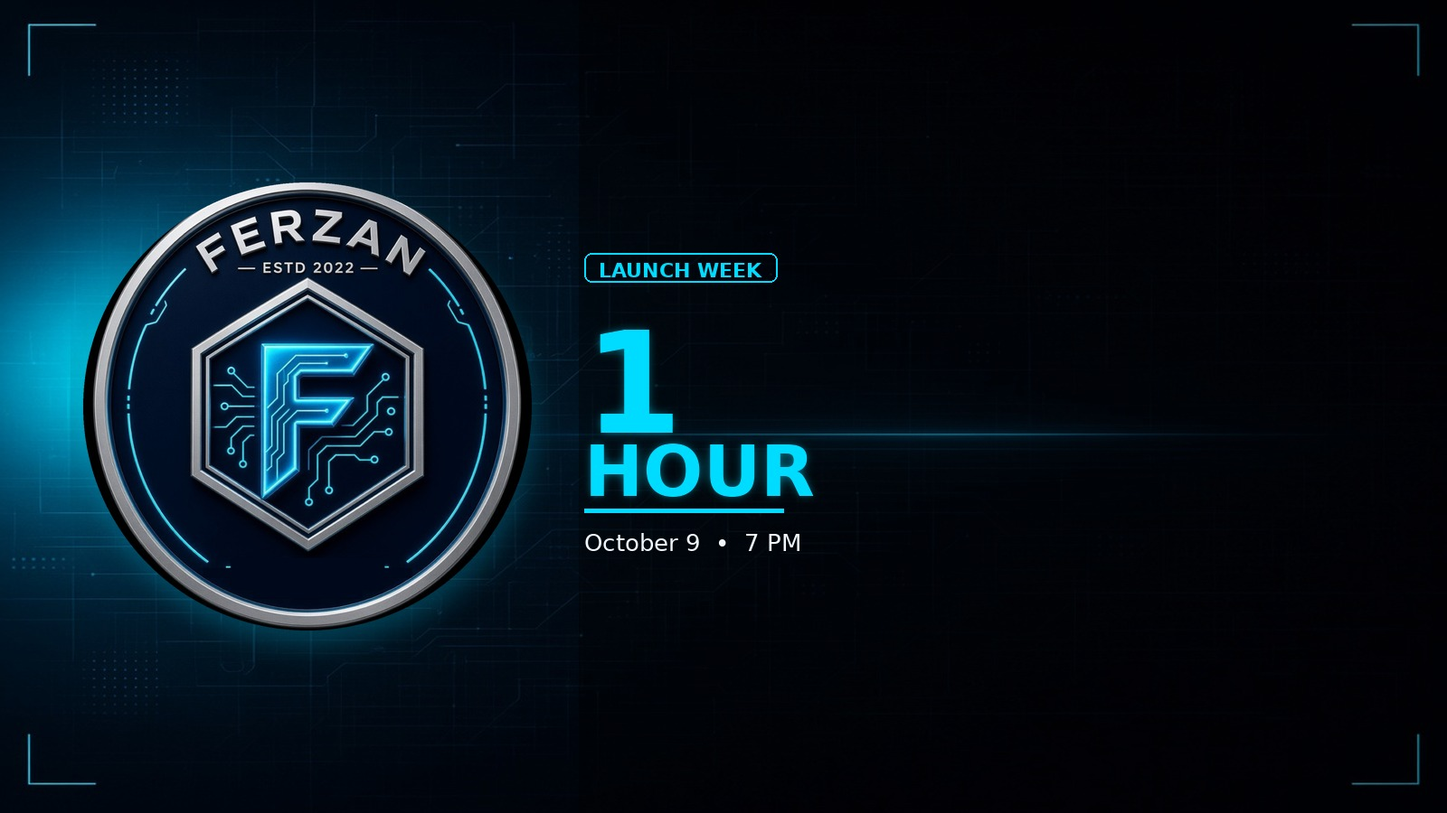
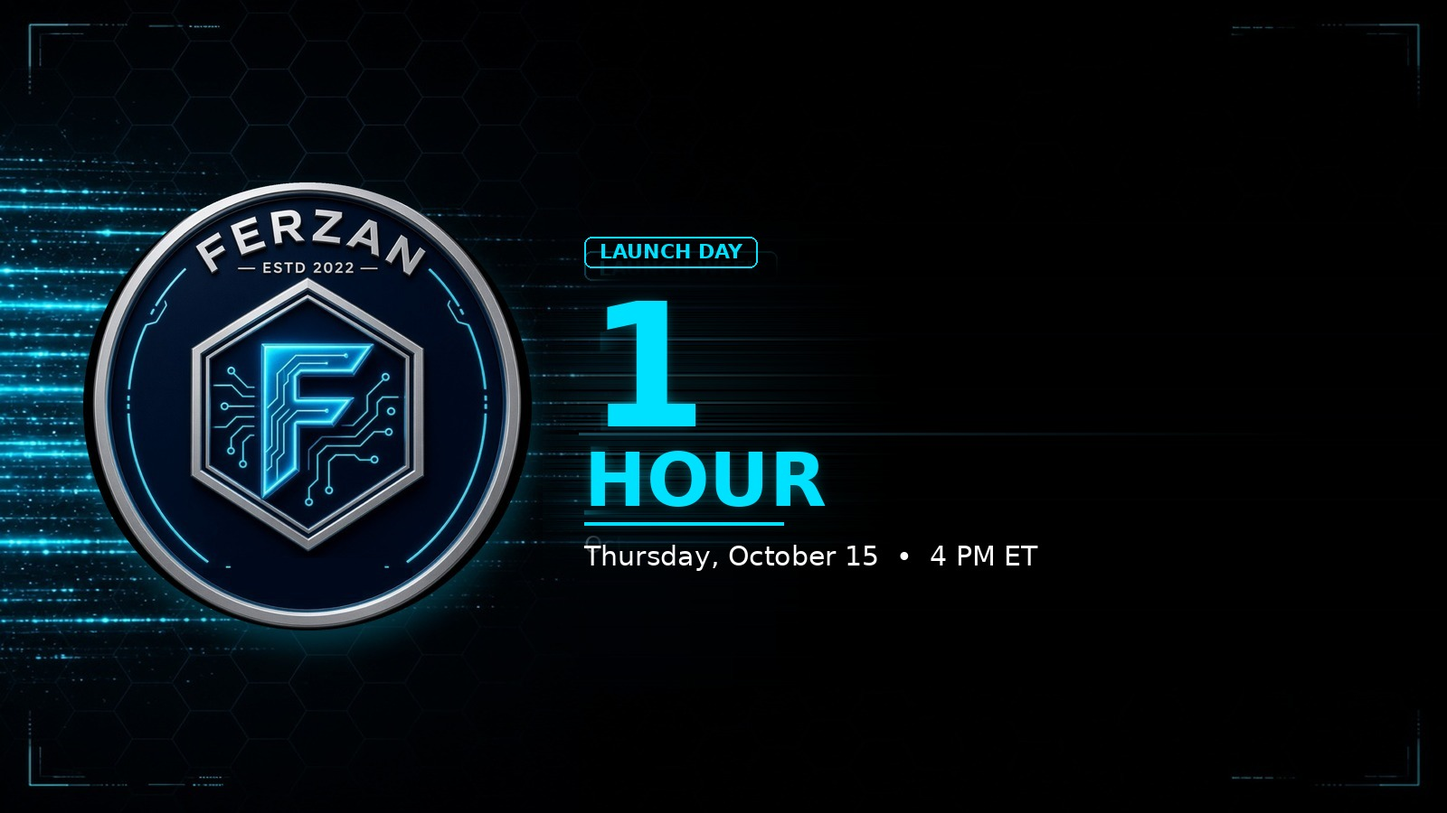
FERZAN launch moves to Thu Oct 15 4:00 PM ET; 14 countdown posts with graphics; 23 rotating promos every 4h; promo graphics generator
Claude-Session: https://claude.ai/code/session_016huYBHpHvZ88BWfZeowzhV

diff --git a/Ferzan-Ecosystem/Launch Bot/ferzan_promo.py b/Ferzan-Ecosystem/Launch Bot/ferzan_promo.py
@@ -1,10 +1,11 @@
 """Ferzan auto-posting, run every 10 minutes by a timer. Decides what is due and posts each thing once:
-  - FERZAN countdown: 7 days, 3 days, 1 day, 6 hours, 1 hour and 10 minutes before launch
+  - FERZAN countdown: 14 and 10 days, 7, 5, 3 and 2 days, 24, 12, 6 and 3 hours, 1 hour, 30, 10 and 5 minutes before launch,
+    each with its own graphic and a different fact about FERZAN
   - daily recap (23:30 UTC): new launches and the top coins by 24h volume
-  - 14 rotating feature promos, every 8 hours (X copies carry hashtags and the $FERZAN cashtag where relevant)
+  - 23 rotating feature promos, every PROMO_EVERY_HOURS hours (default 4; X copies carry hashtags and the $FERZAN cashtag where relevant)
 Where: the @Ferzan_Launches channel and X get everything; the groups in PROMO_GROUPS
 (default @Ferzan_Trade_Ecosystem and @Ferzan_Chat) get everything too (PROMO_GROUP_PROMOS=0 keeps promos out of them). Preview mode (default) sends everything to the admins only;
-set PROMO_LIVE=1 to post publicly, PROMO_OFF=1 to stop. X posts are capped by PROMO_X_PER_DAY (default 4)."""
+set PROMO_LIVE=1 to post publicly, PROMO_OFF=1 to stop. X posts are capped by PROMO_X_PER_DAY (default 6)."""
 import calendar, json, os, sys, time
 from pathlib import Path
 
@@ -20,13 +21,36 @@ os.chdir(HERE); sys.path.insert(0, str(HERE))
 import requests  # noqa: E402
 import ferzan_media as fm  # noqa: E402
 
-LAUNCH_AT = calendar.timegm((2026, 10, 9, 23, 0, 0))
+LAUNCH_AT = calendar.timegm((2026, 10, 15, 20, 0, 0))
 STATE = Path("/opt/ferzan/promo-state.json")
 LIVE = os.environ.get("PROMO_LIVE") == "1"
 SITE = "https://ferzan-factory.com"
 API = "http://127.0.0.1:8000/api"
-COUNTDOWN = [(7 * 86400, "7 days"), (3 * 86400, "3 days"), (86400, "24 hours"), (6 * 3600, "6 hours"), (3600, "1 hour"), (600, "10 minutes")]
-COUNTDOWN_IMG = {7 * 86400: "countdown_7d.jpg", 3 * 86400: "countdown_3d.jpg", 86400: "countdown_24h.jpg", 6 * 3600: "countdown_6h.jpg", 3600: "countdown_1h.jpg", 600: "countdown_10m.jpg"}
+D, H, M = 86400, 3600, 60
+COUNTDOWN = [(14 * D, "14 days"), (10 * D, "10 days"), (7 * D, "7 days"), (5 * D, "5 days"), (3 * D, "3 days"), (2 * D, "2 days"),
+             (D, "24 hours"), (12 * H, "12 hours"), (6 * H, "6 hours"), (3 * H, "3 hours"), (H, "1 hour"), (30 * M, "30 minutes"),
+             (10 * M, "10 minutes"), (5 * M, "5 minutes")]
+COUNTDOWN_IMG = {14 * D: "countdown_14d.jpg", 10 * D: "countdown_10d.jpg", 7 * D: "countdown_7d.jpg", 5 * D: "countdown_5d.jpg",
+                 3 * D: "countdown_3d.jpg", 2 * D: "countdown_2d.jpg", D: "countdown_24h.jpg", 12 * H: "countdown_12h.jpg",
+                 6 * H: "countdown_6h.jpg", 3 * H: "countdown_3h.jpg", H: "countdown_1h.jpg", 30 * M: "countdown_30m.jpg",
+                 10 * M: "countdown_10m.jpg", 5 * M: "countdown_5m.jpg"}
+# one real fact per countdown post, so each one teaches something (all of it is on the FERZAN page)
+COUNTDOWN_FACTS = {
+    14 * D: "Supply is fixed at 1,000,000,000 and the mint authority is removed at launch. Nobody can make more.",
+    10 * D: "No presale and no dev buy: 28% of the supply is bought on the curve, by anyone, at the same price.",
+    7 * D: "Liquidity is locked forever. At graduation the pool's liquidity is locked so it can never be pulled.",
+    5 * D: "The team's 3% sits behind a 12-month cliff, then pays out monthly. The lock link will be posted for anyone to check.",
+    3 * D: "60% of the supply is locked for 24 months and only starts releasing after graduation, 25M a month, to a 2-of-3 multisig.",
+    2 * D: "Every day part of Ferzan's Solana fees buys FERZAN on the open market and burns it, with receipts posted.",
+    D: "The fee at open is 99% and falls to the normal 1% over 30 minutes. Patient buyers win.",
+    12 * H: "The contract address is posted only here, on X from @ferzaneco and on ferzan-factory.com. Any other address is fake.",
+    6 * H: "Launch is automatic, created on-chain by Ferzan's own launcher and handed to the multisig.",
+    3 * H: "Get your wallet ready on Solana. Sign in at ferzan-factory.com or use @Ferzan_Trade_Bot.",
+    H: "One hour. Fee at open: 99%. Minute 1: 85%. Minute 5: 46%. Minute 30: 1%.",
+    30 * M: "30 minutes. Remember: the contract address only comes from @ferzaneco, this channel and ferzan-factory.com/ferzan.",
+    10 * M: "10 minutes. The fee starts at 99%. Don't rush the first minutes.",
+    5 * M: "5 minutes. Stay in this channel: the contract address drops the moment FERZAN is live.",
+}
 # (Telegram text, X text, X hashtags). X gets its own shorter copy; hashtags only go on X.
 PROMOS = [
     (f"🚀 Launch a coin in a minute on Ferzan Factory: Solana, Base, BNB, Ethereum and Robinhood Chain. Sign in with email, Google or X; your wallet is built in.\n{SITE}/launch",
@@ -68,6 +92,33 @@ PROMOS = [
     (f"🎯 FERZAN is built against snipers: the fee starts at 99% and falls to 1% over the first 30 minutes, and 650M of the supply is locked in a multisig by Meteora.\n{SITE}/ferzan",
      f"🎯 $FERZAN is built against snipers: a 99% fee at open that falls to 1% over 30 minutes, and 650M supply locked by Meteora.\n{SITE}/ferzan",
      "#Solana #FairLaunch"),
+    (f"📊 FERZAN supply, 1,000,000,000 fixed: 28% public curve, 7% graduation liquidity (locked forever), 5% unlocks at graduation (20M rewards, 30M team lock), 60% locked for 24 months at 25M a month. Mint authority removed.\n{SITE}/ferzan",
+     f"📊 $FERZAN supply, 1B fixed: 28% public curve, 7% locked liquidity, 5% at graduation, 60% locked 24 months. Mint authority removed.\n{SITE}/ferzan",
+     "#tokenomics #Solana"),
+    (f"🔒 The team's FERZAN: 3% (30M), split equally across three public wallets. Nothing moves for 12 months, then monthly releases. After graduation the multisig locks it on-chain and posts the link so anyone can check.\n{SITE}/ferzan",
+     f"🔒 Team allocation is 3%, equal across three public wallets, 12-month cliff, then monthly. Locked on-chain after graduation, link posted.\n{SITE}/ferzan",
+     "#transparency #Solana"),
+    (f"🎯 Anti-sniper fee on FERZAN: 99% at open, 85% after 1 minute, 46% at 5, 21% at 10, 5% at 20, and the normal 1% at 30 minutes. Sniping the open costs almost everything.\n{SITE}/ferzan",
+     f"🎯 $FERZAN fee: 99% at open, 46% at 5 min, 5% at 20 min, 1% at 30 min. Sniping the open costs almost everything.\n{SITE}/ferzan",
+     "#FairLaunch #Solana"),
+    (f"🔥 Watch the burn: every day 30% of Ferzan's Solana fees buys FERZAN on the open market and burns it. Every buy and burn is posted with its transaction link.\n{SITE}/transparency",
+     f"🔥 Watch the $FERZAN burn: 30% of Ferzan's Solana fees buy and burn daily. Every transaction is public.\n{SITE}/transparency",
+     "#burn #Solana"),
+    ("😈 New in @Ferzan_Trade_Bot: Degen mode. Paste a CA and it buys, with bigger default sizes, looser slippage, TP +300%, SL -25% and a 20% trailing stop on every buy. Rug Guard stays on, honeypots stay blocked, and one tap restores your old settings.\nhttps://t.me/Ferzan_Trade_Bot",
+     "😈 Degen mode in @Ferzan_Trade_Bot: paste a CA and it buys, TP/SL/trail set automatically. Rug Guard on, honeypots blocked, off in one tap.\nhttps://t.me/Ferzan_Trade_Bot",
+     "#TradingBot #memecoins"),
+    ("🌐 @Ferzan_Trade_Bot trades across 19 chains from one desk: one wallet screen, one token card, one tap to buy.\nhttps://t.me/Ferzan_Trade_Bot",
+     "🌐 19 chains, one trading desk in Telegram. @Ferzan_Trade_Bot\nhttps://t.me/Ferzan_Trade_Bot",
+     "#multichain #crypto"),
+    ("👀 Paste any contract address into @Ferzan_Trade_Bot and see the token card before you buy: safety verdict, liquidity, holder concentration, price impact and what you already hold. One tap to Protect with TP and SL.\nhttps://t.me/Ferzan_Trade_Bot",
+     "👀 See it before you buy: paste a CA in @Ferzan_Trade_Bot for safety, liquidity, holders and price impact. One tap Protect.\nhttps://t.me/Ferzan_Trade_Bot",
+     "#DYOR #TradingBot"),
+    (f"🏆 Top traders and top callers on every Ferzan coin, every chain, ranked weekly. See where you stand.\n{SITE}/compete",
+     f"🏆 Weekly leaderboard: top traders and callers on every Ferzan coin, every chain.\n{SITE}/compete",
+     "#leaderboard #crypto"),
+    (f"🌉 Bridge and buy: move value across chains and buy in one flow, inside @Ferzan_Trade_Bot or on the website.\n{SITE}/bridge",
+     f"🌉 Bridge and buy in one flow, in Telegram or on the web.\n{SITE}/bridge",
+     "#bridge #DeFi"),
     ("💬 Questions, ideas, alpha? The Ferzan community is here.\nhttps://t.me/Ferzan_Chat",
      "💬 Questions, ideas, alpha? Join the Ferzan community on Telegram.\nhttps://t.me/Ferzan_Chat",
      "#cryptocommunity #Web3"),
@@ -137,7 +188,7 @@ def post(s: dict, key: str, text: str, x_text: str | None = None, groups: bool =
         for g in GROUPS:
             if not fm.tg_photo(g, text, pic):
                 admins(f"Could not post in {g}: add @Ferzan_Launch_Bot to it (admin in a channel, member in a group).")
-    cap = int(os.environ.get("PROMO_X_PER_DAY") or 4)
+    cap = int(os.environ.get("PROMO_X_PER_DAY") or 6)
     if x_text is not None and len(s["x_log"]) < cap:
         try:
             ok, info = fm.x_post(x_text[:280], pic)
@@ -154,11 +205,12 @@ def countdown(s: dict, now: float) -> None:
     for secs, label in COUNTDOWN:
         due = LAUNCH_AT - secs
         if due <= now < due + 1800:  # within 30 minutes of the moment; never a stale post
-            et = "Friday Oct 9, 7:00 PM Eastern"
-            text = (f"⏳ FERZAN launches in {label} — {et}.\n\nThe launch is automatic. The fee starts at 99% and falls to 1% over 30 minutes, "
+            et = "Thursday Oct 15, 4:00 PM Eastern"
+            fact = COUNTDOWN_FACTS.get(secs, "")
+            text = (f"⏳ FERZAN launches in {label} — {et}.\n\n{fact}\n\nThe launch is automatic. The fee starts at 99% and falls to 1% over 30 minutes, "
                     f"so sniping the open costs almost everything. 650M of the supply is locked in a multisig by Meteora.\n\n"
                     f"The contract address is posted here and at {SITE}/ferzan the moment it goes live. Anything posted before that is not FERZAN.")
-            post(s, f"countdown:{secs}", text, with_tags(f"⏳ $FERZAN launches in {label}: {et}. Anti-sniper fee at open, 650M locked. Contract address only from @ferzaneco and {SITE}/ferzan at launch.", "#Solana #Meteora"), groups=True, image=COUNTDOWN_IMG.get(secs, ""))
+            post(s, f"countdown:{secs}", text, with_tags(f"⏳ $FERZAN launches in {label}: {et}. {fact} Contract address only from @ferzaneco and {SITE}/ferzan.", "#Solana #Meteora"), groups=True, image=COUNTDOWN_IMG.get(secs, ""))
 
 
 def recap(s: dict, now: float) -> None:
@@ -181,14 +233,15 @@ def recap(s: dict, now: float) -> None:
 
 
 def promo(s: dict, now: float) -> None:
-    if now - float(s.get("last_promo") or 0) < 8 * 3600:
+    every = float(os.environ.get("PROMO_EVERY_HOURS") or 4) * 3600
+    if now - float(s.get("last_promo") or 0) < every - 300:  # 5 minutes of slack so the 10-minute timer never skips a slot
         return
     if LAUNCH_AT - 3 * 3600 < now < LAUNCH_AT + 3 * 3600:
         return  # keep launch hours clear
     i = int(s.get("promo_i") or 0) % len(PROMOS)
     tg_text, x_body, tags = PROMOS[i]
     n = int(s.get("promo_n") or 0)  # rotating extra tag keeps repeat cycles from being identical (X rejects duplicates)
-    post(s, f"promo:{int(now // (8 * 3600))}", tg_text, with_tags(x_body, tags, GENERAL_TAGS[n % len(GENERAL_TAGS)]),
+    post(s, f"promo:{int(now // every)}", tg_text, with_tags(x_body, tags, GENERAL_TAGS[n % len(GENERAL_TAGS)]),
          groups=os.environ.get("PROMO_GROUP_PROMOS") != "0", image=f"promo_{i + 1:02d}.jpg")
     s["promo_n"] = n + 1
     s["promo_i"] = i + 1; s["last_promo"] = now

diff --git a/Ferzan-Ecosystem/Launch Bot/scripts/make_promo_images.py b/Ferzan-Ecosystem/Launch Bot/scripts/make_promo_images.py
@@ -1,0 +1,145 @@
+"""Builds the Ferzan countdown and promo graphics in promo_img/ (1600x900, same look as the originals).
+  python scripts/make_promo_images.py            # writes every image
+  python scripts/make_promo_images.py countdown  # only the countdown set
+Re-run after changing LAUNCH_TEXT or any copy below. Needs Pillow and the DejaVu Sans fonts."""
+from __future__ import annotations
+
+import sys
+from pathlib import Path
+
+from PIL import Image, ImageDraw, ImageFilter, ImageFont
+
+HERE = Path(__file__).resolve().parent.parent
+IMG = HERE / "promo_img"
+BOLD = "/usr/share/fonts/truetype/dejavu/DejaVuSans-Bold.ttf"
+REG = "/usr/share/fonts/truetype/dejavu/DejaVuSans.ttf"
+CYAN, ORANGE, WHITE = (0, 224, 255), (255, 107, 30), (255, 255, 255)
+LAUNCH_TEXT = "Thursday, October 15  •  4 PM ET"
+X0, MAXW = 646, 900  # text column: starts right of the coin, this wide
+
+
+def font(path: str, size: int) -> ImageFont.FreeTypeFont:
+    return ImageFont.truetype(path, size)
+
+
+def clean_template(src: str) -> Image.Image:
+    """An original graphic with its text wiped. Each row of the text area is refilled with a smooth blend from the
+    background just left of it to the clean right edge, and the patch is feathered in so no seam shows."""
+    im = Image.open(IMG / src).convert("RGB")
+    px = im.load()
+    W, H = im.size
+    x0, x1, y0, y1 = 600, 1592, 215, 790
+    patch = Image.new("RGB", (W, H))
+    pp = patch.load()
+    for y in range(y0, y1):
+        lft = sorted(px[x, y] for x in range(560, 596))[18]
+        rgt = sorted(px[x, y] for x in range(1530, 1592))[31]
+        for x in range(x0, x1):
+            t = min(1.0, max(0.0, (x - x0) / 420.0))
+            t = t * t * (3 - 2 * t)
+            pp[x, y] = tuple(int(lft[i] + (rgt[i] - lft[i]) * t) for i in range(3))
+    mask = Image.new("L", (W, H), 0)
+    ImageDraw.Draw(mask).rectangle([x0 + 30, y0 + 30, x1, y1 - 30], fill=255)
+    im = Image.composite(patch, im, mask.filter(ImageFilter.GaussianBlur(28)))
+    d = ImageDraw.Draw(im, "RGBA")  # the soft horizontal light line behind the text
+    for x in range(640, 1500):
+        a = int(150 * (1 - (x - 640) / 860) ** 1.6)
+        d.line([(x, 479), (x, 481)], fill=(40, 120, 150, a))
+    return im
+
+
+def glow_text(im: Image.Image, xy, text, fnt, color, spacing=0) -> None:
+    layer = Image.new("RGBA", im.size, (0, 0, 0, 0))
+    ImageDraw.Draw(layer).text(xy, text, font=fnt, fill=color + (255,), anchor="ls")
+    blur = layer.filter(ImageFilter.GaussianBlur(9))
+    im.paste(Image.alpha_composite(Image.new("RGBA", im.size, (0, 0, 0, 0)), blur).convert("RGB"), mask=blur.split()[3].point(lambda v: int(v * 0.6)))
+    ImageDraw.Draw(im).text(xy, text, font=fnt, fill=color, anchor="ls")
+
+
+def fit(text: str, path: str, size: int, width: int = MAXW) -> ImageFont.FreeTypeFont:
+    while size > 26 and font(path, size).getlength(text) > width:
+        size -= 2
+    return font(path, size)
+
+
+def badge(im: Image.Image, y: int, text: str, color) -> None:
+    f = font(BOLD, 22)
+    w = int(f.getlength(text)) + 34
+    d = ImageDraw.Draw(im)
+    d.rounded_rectangle([X0, y, X0 + w, y + 34], radius=8, outline=color, width=2)
+    d.text((X0 + 17, y + 3), text, font=f, fill=color)
+
+
+def underline(im: Image.Image, y: int, color) -> None:
+    ImageDraw.Draw(im).rectangle([X0, y, X0 + 220, y + 3], fill=color)
+
+
+def info_card(name: str, tag: str, title: list[str], lines: list[str], color=CYAN, base="promo_14.jpg") -> None:
+    im = clean_template(base)
+    lh = 34 * 1.45
+    top = 480 - (len(title) * 92 + 70 + len(lines) * lh) / 2 - 10
+    top = max(top, 215)
+    badge(im, int(top), tag, color)
+    y = int(top) + 56
+    for t in title:
+        f = fit(t, BOLD, 96)
+        y += int(f.size * 0.9)
+        glow_text(im, (X0, y), t, f, color)
+        y += int(f.size * 0.16)
+    underline(im, y + 10, color)
+    y += 52
+    d = ImageDraw.Draw(im)
+    for ln in lines:
+        d.text((X0, y), ln, font=fit(ln, REG, 34), fill=WHITE, anchor="ls")
+        y += int(lh)
+    im.save(IMG / name, quality=92)
+
+
+def countdown(name: str, number: str, unit: str, tag: str, base: str) -> None:
+    im = clean_template(base)
+    badge(im, 262, tag, CYAN)
+    glow_text(im, (X0 + 4, 472), number, fit(number, BOLD, 190, 760), CYAN)
+    glow_text(im, (X0, 560), unit, fit(unit, BOLD, 82, MAXW), CYAN)
+    underline(im, 578, CYAN)
+    ImageDraw.Draw(im).text((X0, 626), LAUNCH_TEXT, font=font(REG, 30), fill=WHITE, anchor="ls")
+    im.save(IMG / name, quality=92)
+
+
+COUNTDOWNS = [  # file, number, unit, badge, background
+    ("countdown_14d.jpg", "14", "DAYS", "COUNTDOWN", "promo_14.jpg"),
+    ("countdown_10d.jpg", "10", "DAYS", "COUNTDOWN", "promo_14.jpg"),
+    ("countdown_7d.jpg", "7", "DAYS", "LAUNCH WEEK", "promo_14.jpg"),
+    ("countdown_5d.jpg", "5", "DAYS", "LAUNCH WEEK", "promo_14.jpg"),
+    ("countdown_3d.jpg", "3", "DAYS", "LAUNCH WEEK", "promo_14.jpg"),
+    ("countdown_2d.jpg", "2", "DAYS", "LAUNCH WEEK", "promo_14.jpg"),
+    ("countdown_24h.jpg", "24", "HOURS", "LAUNCH DAY", "promo_14.jpg"),
+    ("countdown_12h.jpg", "12", "HOURS", "LAUNCH DAY", "promo_14.jpg"),
+    ("countdown_6h.jpg", "6", "HOURS", "LAUNCH DAY", "promo_14.jpg"),
+    ("countdown_3h.jpg", "3", "HOURS", "LAUNCH DAY", "promo_14.jpg"),
+    ("countdown_1h.jpg", "1", "HOUR", "LAUNCH DAY", "countdown_10m.jpg"),
+    ("countdown_30m.jpg", "30", "MINUTES", "LAUNCH DAY", "countdown_10m.jpg"),
+    ("countdown_10m.jpg", "10", "MINUTES", "GO TIME", "countdown_10m.jpg"),
+    ("countdown_5m.jpg", "5", "MINUTES", "GO TIME", "countdown_10m.jpg"),
+]
+
+PROMOS = [  # file, badge, title lines, info lines, colour
+    ("promo_15.jpg", "SUPPLY", ["1B FERZAN"], ["28%  public curve", "7%   graduation liquidity, locked forever", "5%   at graduation: 2% rewards, 3% team", "60%  locked, 25M a month for 24 months"], CYAN),
+    ("promo_16.jpg", "TEAM LOCK", ["3% TEAM,", "12-MONTH CLIFF"], ["10M each to three team wallets", "Nothing moves for 12 months, then monthly releases", "Locked on-chain, link posted for anyone to check"], CYAN),
+    ("promo_17.jpg", "ANTI-SNIPER", ["99% TO 1%"], ["Fee at open: 99%. One minute in: 85%", "5 min: 46%   10 min: 21%   20 min: 5%", "30 minutes in: the normal 1%", "Sniping the open costs almost everything"], ORANGE),
+    ("promo_18.jpg", "BURN", ["WATCH THE", "BURN LIVE"], ["30% of Ferzan's Solana fees buy FERZAN daily and burn it", "Every buy and burn posted with its transaction link", "ferzan-factory.com/transparency"], ORANGE),
+    ("promo_19.jpg", "TRADE BOT", ["DEGEN MODE"], ["Paste a CA and it buys. Bigger sizes, looser limits", "TP +300%, SL -25%, 20% trailing stop on every buy", "Rug Guard stays on. Honeypots stay blocked", "Off in one tap, your old settings come back"], ORANGE),
+    ("promo_20.jpg", "TRADE BOT", ["19 CHAINS,", "ONE DESK"], ["Solana, Base, BNB, Ethereum, Tron, TON and more", "One wallet screen, one card, one tap to buy", "t.me/Ferzan_Trade_Bot"], CYAN),
+    ("promo_21.jpg", "BEFORE YOU BUY", ["SEE IT FIRST"], ["Paste any CA and the card shows:", "Safety verdict, liquidity and holder concentration", "Price impact, and what you already hold", "One tap to Protect with TP and SL"], CYAN),
+    ("promo_22.jpg", "COMPETE", ["WEEKLY", "LEADERBOARD"], ["Top traders and top callers on every Ferzan coin", "Every chain, ranked each week", "ferzan-factory.com/compete"], CYAN),
+    ("promo_23.jpg", "BRIDGE", ["BRIDGE", "AND BUY"], ["Move value across chains and buy in one flow", "Inside Ferzan Trade Bot or on the website", "ferzan-factory.com/bridge"], CYAN),
+]
+
+if __name__ == "__main__":
+    what = sys.argv[1] if len(sys.argv) > 1 else "all"
+    if what in ("all", "countdown"):
+        for c in COUNTDOWNS:
+            countdown(*c)
+    if what in ("all", "promos"):
+        for f, tag, title, lines, col in PROMOS:
+            info_card(f, tag, title, lines, col)
+    print("done")

diff --git a/Ferzan-Ecosystem/Launch Bot/ferzan_refill.py b/Ferzan-Ecosystem/Launch Bot/ferzan_refill.py
@@ -3,7 +3,7 @@
 The tank is a wallet on the droplet (keys in /opt/ferzan/dbc-keys/gas-tank.json) that you fill by hand with a
 limited amount. The treasury is never touched. Every 30 minutes (ferzan-refill.timer):
   * Flywheel wallet    below 0.01 SOL  -> topped up to 0.03 SOL
-  * FERZAN launcher    below 0.10 SOL  -> topped up to 0.12 SOL (until the Oct 9 launch only)
+  * FERZAN launcher    below 0.10 SOL  -> topped up to 0.12 SOL (until the Oct 15 launch only)
   * Tron keeper        below 260 TRX while a Tron curve is 80%+ full -> topped up to 300 TRX
 Destinations are fixed in this file; nothing else can receive from the tank. Daily caps: 0.2 SOL and 400 TRX.
 The admins get a DM for every top-up, and when the tank itself runs low.
@@ -30,7 +30,7 @@ TANK = Path("/opt/ferzan/dbc-keys/gas-tank.json")
 STATE = Path("/opt/ferzan/ops/refill_state.json")
 SOL_RPC = os.environ.get("SOLANA_RPC_URL") or "https://api.mainnet-beta.solana.com"
 INDEX_DB = os.environ.get("CURVE_INDEX_DB") or "/opt/ferzan/app/launch/curve_index.db"
-FERZAN_LAUNCH_AT = calendar.timegm((2026, 10, 9, 23, 0, 0))
+FERZAN_LAUNCH_AT = calendar.timegm((2026, 10, 15, 20, 0, 0))
 DAY_CAP = {"sol": 0.2, "tron": 400.0}
 TANK_LOW = {"sol": 0.1, "tron": 300.0}
 # (chain, address, refill below, refill up to, label)

diff --git a/Ferzan-Ecosystem/Launch Bot/ferzan_flagship.py b/Ferzan-Ecosystem/Launch Bot/ferzan_flagship.py
@@ -17,7 +17,7 @@ for f in ("/opt/ferzan/.env", str(HERE / ".env")):
 os.chdir(HERE); sys.path.insert(0, str(HERE))
 import requests  # noqa: E402
 
-LAUNCH_AT = calendar.timegm((2026, 10, 9, 23, 0, 0))  # Friday Oct 9 2026, 7:00 PM Eastern
+LAUNCH_AT = calendar.timegm((2026, 10, 15, 20, 0, 0))  # Thursday Oct 15 2026, 4:00 PM Eastern (20:00 UTC)
 NAME, SYMBOL = "Ferzan", "FERZAN"
 VAULT = "2vWqwX72ijo24vgvPQW6yBQh2qXE4jrEd18YDdEbWKLG"
 LOGO_URL = "https://ferzan-factory.com/brand/ferzan-token.jpg"
@@ -83,7 +83,7 @@ def prepare(tell: bool) -> int:
     s = ensure_metadata(load())
     r = node("plan", s["uri"])
     when = time.strftime("%a %b %d %Y %H:%M UTC", time.gmtime(LAUNCH_AT))
-    lines = [f"FERZAN rehearsal: {'READY' if r.get('ok') else 'PROBLEM'}", f"Launch: {when} (7:00 PM Eastern)",
+    lines = [f"FERZAN rehearsal: {'READY' if r.get('ok') else 'PROBLEM'}", f"Launch: {when} (4:00 PM Eastern)",
              f"Token address (keep private until launch): {r.get('mint')}", f"Pool: {r.get('pool')}",
              f"Launcher: {r.get('launcher')} ({float(r.get('launcher_sol') or 0):.4f} SOL)", f"Vault: {r.get('vault')} - {r.get('vault_check')}",
              f"Pool creation test: {r.get('create_sim') or ('pool already exists' if r.get('pool_exists') else '-')}",

diff --git a/Ferzan-Ecosystem/Launch Bot/ferzan_watchdog.py b/Ferzan-Ecosystem/Launch Bot/ferzan_watchdog.py
@@ -26,7 +26,7 @@ for f in ("/opt/ferzan/.env", str(HERE / ".env")):
 import requests  # noqa: E402
 
 STATE = Path("/opt/ferzan/app/watchdog-state.json")
-FERZAN_LAUNCH_AT = calendar.timegm((2026, 10, 9, 23, 0, 0))
+FERZAN_LAUNCH_AT = calendar.timegm((2026, 10, 15, 20, 0, 0))
 REPEAT_S = 6 * 3600
 SOL_RPC = os.environ.get("SOLANA_RPC_URL") or "https://api.mainnet-beta.solana.com"
 TRONGRID = (os.environ.get("TRONGRID_URL") or "https://api.trongrid.io").rstrip("/")
@@ -38,7 +38,7 @@ SERVICES = ["ferzan-trade", "ferzan-trade-api", "ferzan-webapp", "ferzan-launch"
             "ferzan-buy", "ferzan-guardian", "ferzan-curve-indexer", "ferzan-liq", "ferzan-sol-trades"]
 DEFAULT_WALLETS = [
     ("sol", "J8yrufechFRtMfCz3MRdv4w1TTkv1eHqjiub3t3v6317", 0.01, "Flywheel wallet (daily claim, buy + burn)"),  # it keeps a 0.02 reserve itself
-    ("sol", "95Mu227mZ7cFjaRULv966B3erithUZHVEhSFUZ7YR8Yo", 0.08, "FERZAN launcher (creates the pool on Oct 9)"),
+    ("sol", "95Mu227mZ7cFjaRULv966B3erithUZHVEhSFUZ7YR8Yo", 0.08, "FERZAN launcher (creates the pool on Oct 15)"),
     ("tron", "TNtgqHLXQdLHevwNt14mzoTPuFqbPkaKRz", 260.0, "Tron graduation keeper"),
 ]
 

diff --git a/Ferzan-Ecosystem/Launch Bot/api.py b/Ferzan-Ecosystem/Launch Bot/api.py
@@ -2176,7 +2176,7 @@ def creator_record(wallet: str):
 _PULSE: dict = {"t": 0.0, "v": None}
 _FLAGSHIP_STATE = "/opt/ferzan/dbc-keys/ferzan-flagship-state.json"
 _FLYWHEEL_STATE = "/opt/ferzan/dbc-keys/flywheel-state.json"
-_FERZAN_LAUNCH_AT = 1791586800  # Fri Oct 9 2026 23:00 UTC (7:00 PM Eastern)
+_FERZAN_LAUNCH_AT = 1792094400  # Thu Oct 15 2026 20:00 UTC (4:00 PM Eastern)
 
 
 def _feed_hidden() -> set:
@@ -3366,7 +3366,7 @@ def pnl_all(wallet: str):
 
 # ---------------------------------------------------------------- weekly competition and callers
 _WEEK = 7 * 86400
-_COMPETE_START = int(os.environ.get("COMPETE_START") or 1791586800)  # FERZAN launch: Fri Oct 9 2026, 23:00 UTC
+_COMPETE_START = int(os.environ.get("COMPETE_START") or 1792094400)  # FERZAN launch: Thu Oct 15 2026, 20:00 UTC
 _ZERO = ("", "0x0000000000000000000000000000000000000000", "T9yD14Nj9j7xAB4dbGeiX9h8unkKHxuWwb")
 _COMPETE_CACHE: dict = {}
 

diff --git a/Ferzan-Ecosystem/Launch Bot/tests/test_ton_curve_tg.py b/Ferzan-Ecosystem/Launch Bot/tests/test_ton_curve_tg.py
@@ -272,9 +272,9 @@ class Tiers(Base):
         t = lb._tiers_text()
         for frag in ("holder", "booster", "whale", "titan", "1,000,000+", "5,000,000+", "10,000,000+", "25,000,000+",
                      "half price", "free", "0.15%", "0.10%", "0.05%", "0%", "else 0.25%", "10% off (soon)",
-                     "15% off (soon)", "25% off (soon)", "40% off (soon)", "Fri Oct 9 2026, 7PM ET"):
+                     "15% off (soon)", "25% off (soon)", "40% off (soon)", "Thu Oct 15 2026, 4PM ET"):
             self.assertIn(frag, t)
-        self.assertLess(t.index("titan"), t.index("Fri Oct 9") + 10_000)
+        self.assertLess(t.index("titan"), t.index("Thu Oct 15") + 10_000)
 
     def test_mint_stays_hidden(self):
         with mock.patch.dict(os.environ, {"FERZAN_PERK_MINT": self.MINT}):

diff --git a/Ferzan-Ecosystem/Launch Bot/launch_bot.py b/Ferzan-Ecosystem/Launch Bot/launch_bot.py
@@ -281,7 +281,7 @@ def _short(w: str) -> str:
 
 
 # ------------------------------------------------------------ holder tiers --
-PERKS_START_TEXT = "Fri Oct 9 2026, 7PM ET"      # FERZAN launch: perks switch on then (the mint stays hidden until announced)
+PERKS_START_TEXT = "Thu Oct 15 2026, 4PM ET"      # FERZAN launch: perks switch on then (the mint stays hidden until announced)
 _SOL_ADDR = re.compile(r"[1-9A-HJ-NP-Za-km-z]{32,44}")
 
 

diff --git a/Ferzan-Ecosystem/Launch Bot/ferzan_flywheel.py b/Ferzan-Ecosystem/Launch Bot/ferzan_flywheel.py
@@ -16,7 +16,7 @@ for f in ("/opt/ferzan/.env", str(HERE / ".env")):
 os.chdir(HERE); sys.path.insert(0, str(HERE))
 import requests  # noqa: E402
 
-LAUNCH_AT = calendar.timegm((2026, 10, 9, 23, 0, 0))
+LAUNCH_AT = calendar.timegm((2026, 10, 15, 20, 0, 0))
 STATE = Path("/opt/ferzan/dbc-keys/flywheel-state.json")
 RPC = os.environ.get("SOLANA_RPC_URL") or "https://api.mainnet-beta.solana.com"
 LIVE = os.environ.get("FLYWHEEL_LIVE") == "1"
